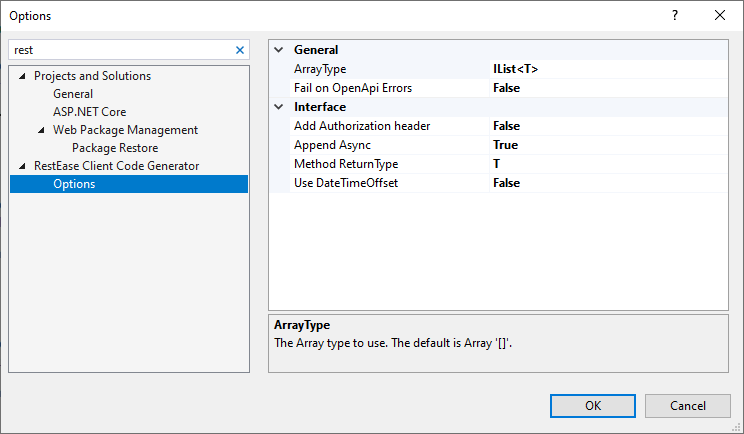
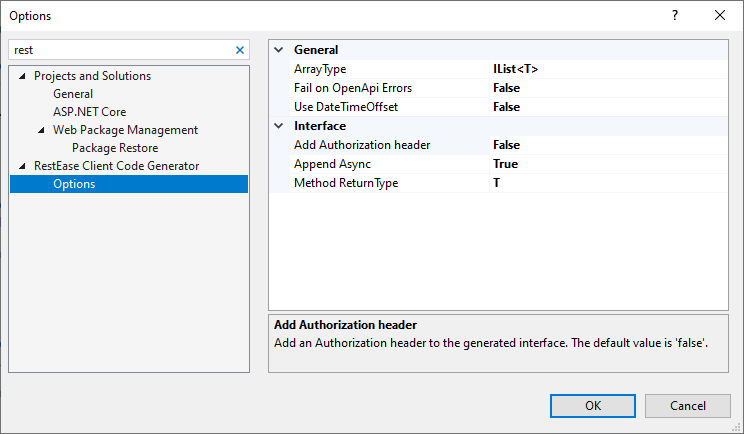
General

diff --git a/src/RestEaseClientGenerator.VSIX/Options/RestEase/RestEaseOptionsPage.cs b/src/RestEaseClientGenerator.VSIX/Options/RestEase/RestEaseOptionsPage.cs
@@ -17,8 +17,6 @@ namespace RestEaseClientGenerator.VSIX.Options.RestEase
         [Category(General)]
         [DisplayName("ArrayType")]
         [Description("The Array type to use. The default is Array '[]'.")]
-        //[PropertyPageTypeConverter(typeof(EnumDescriptionConverter))]
-        //[TypeConverter(typeof(EnumDescriptionConverter))]
         public ArrayType ArrayType { get; set; }
 
         [Category(General)]
@@ -26,7 +24,7 @@ namespace RestEaseClientGenerator.VSIX.Options.RestEase
         [Description("Don't generate the file if errors are detected when parsing the specification file. The default value is 'false'.")]
         public bool FailOnOpenApiErrors { get; set; }
 
-        [Category(Interface)]
+        [Category(General)]
         [DisplayName("Use DateTimeOffset")]
         [Description("Use DateTimeOffset instead of DateTime. The default value is 'false'.")]
         public bool UseDateTimeOffset { get; set; }
